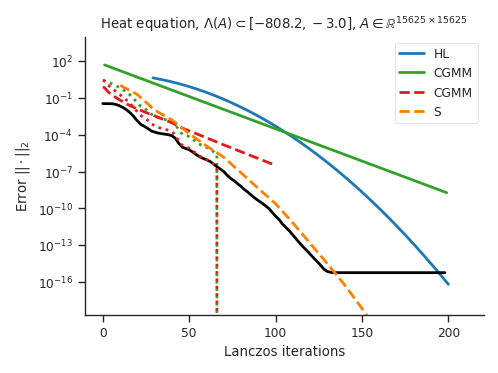
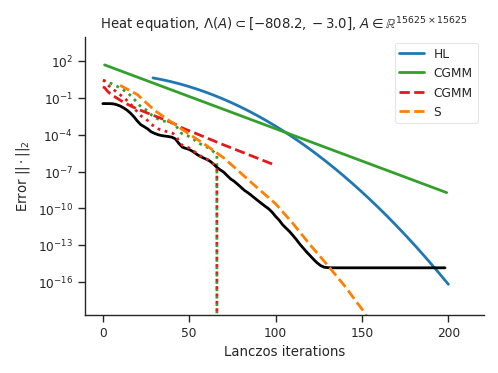
Need to include t in the matrix for the norm

diff --git a/experiments/bounds_exp_heat.py b/experiments/bounds_exp_heat.py
@@ -55,7 +55,7 @@ if __name__ == "__main__":
 
 
     def A_norm(x):
-        return np.sqrt(x.T @ (np.sign(evals[-1]) * A) @ x)
+        return np.sqrt(x.T @ (np.sign(evals[-1]) * t * A) @ x)
 
 
     func_dense = scipy.linalg.expm
